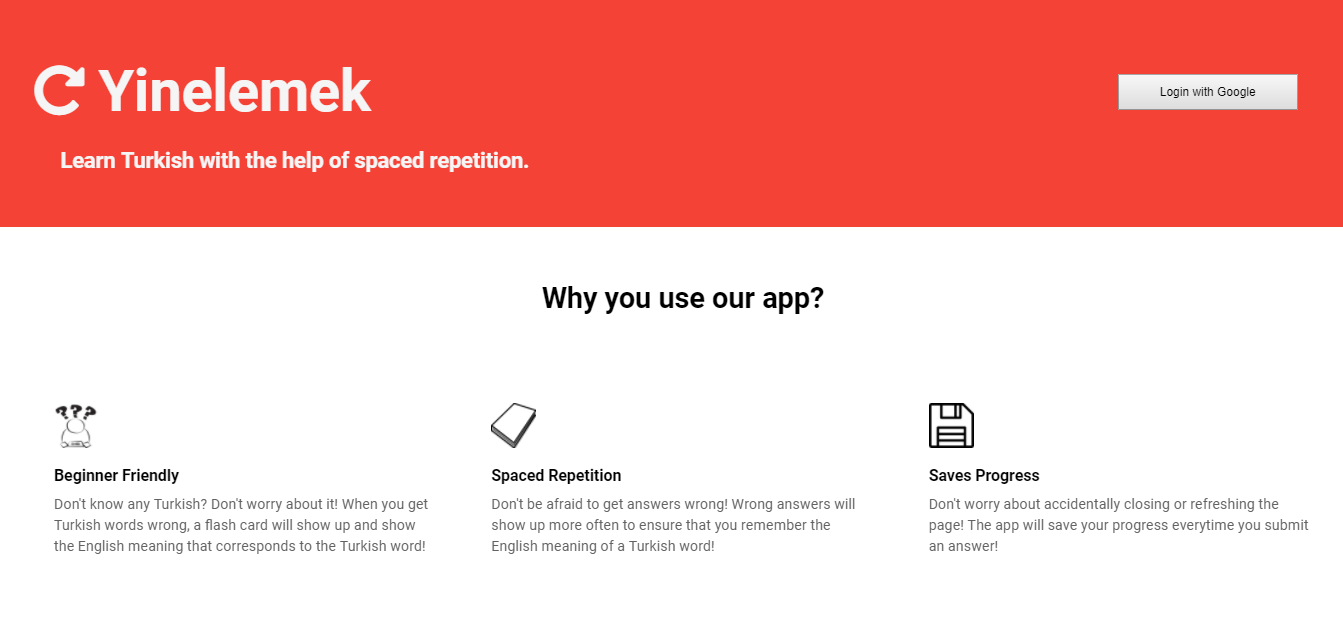
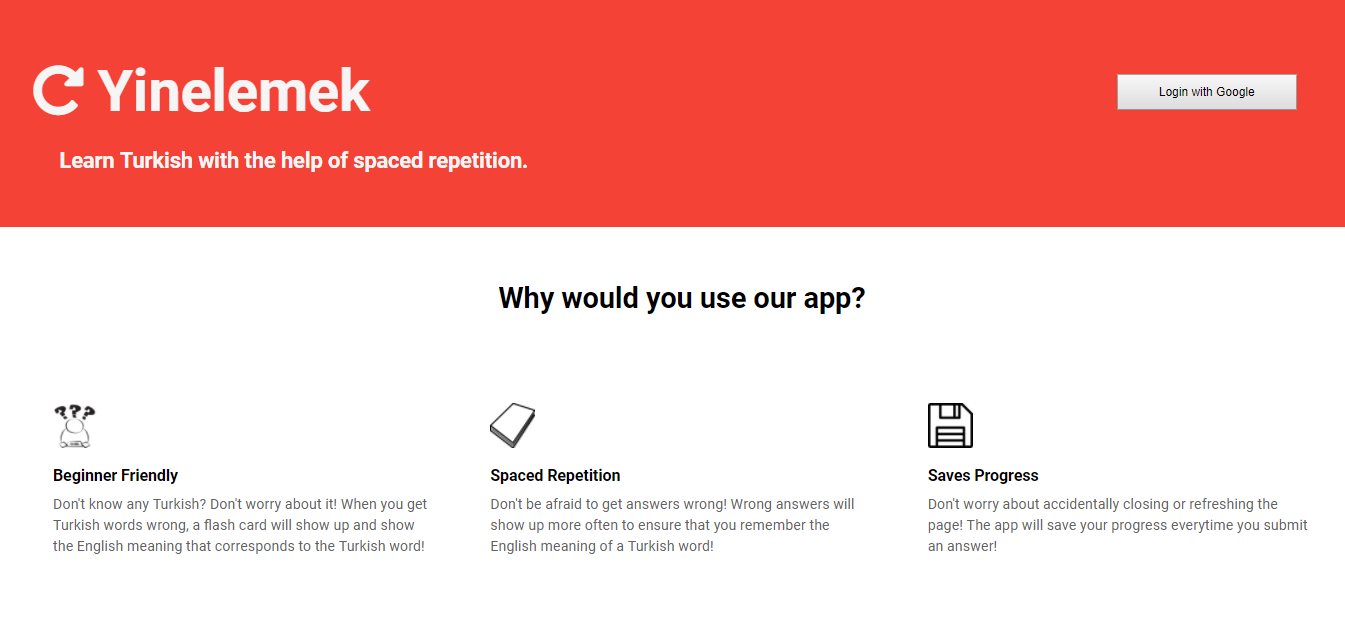
fix a grammar issue in h1

diff --git a/client/src/components/info-page.js b/client/src/components/info-page.js
@@ -5,7 +5,7 @@ import './info-page.css';
 export default function InfoPage() {
   return (
     <div className='InfoPage'>
-      <h1>Why you use our app?</h1>
+      <h1>Why would you use our app?</h1>
       <main>
         <section className='info_block'>
           <img src='./frontend_images/clueless.png' alt='beginner'/>
